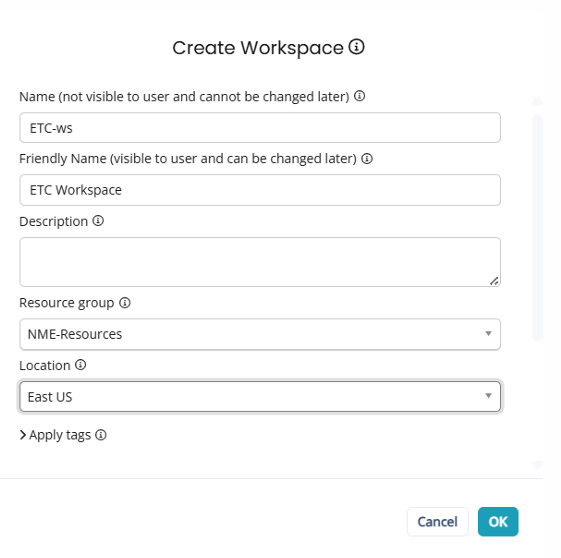
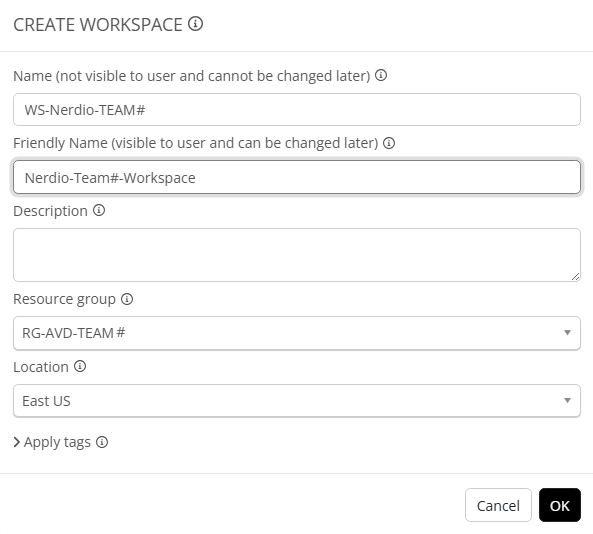
Commit Nerdio

diff --git a/Nerdio/01-Enterprise-Foundations-Lab.md b/Nerdio/01-Enterprise-Foundations-Lab.md
@@ -8,11 +8,11 @@
 
 | Propriedade | Valor |
 |---|---|
-| Name(internal only) | **Insira um nome exclusivo. Salve o nome para usar depois!** |
-| Friendly Name (visible to users) | **Insira um nome exclusivo.** |
+| Name(internal only) | **Insira um nome. Ex: WS-Nerdio=TEAM#** |
+| Friendly Name (visible to users) | **Insira um nome. Ex: Nerdio-Team#-Workspace** |
 | Description | Deixe em branco. |
 | Resource Group | Deixe como padrão. |
-| Location | **Selecione uma região próxima de você.** |
+| Location | **Selecione East US.** |
 
 ![Criar Workspace](../Images/Nerdio/CreateWorkspace.png)
 
